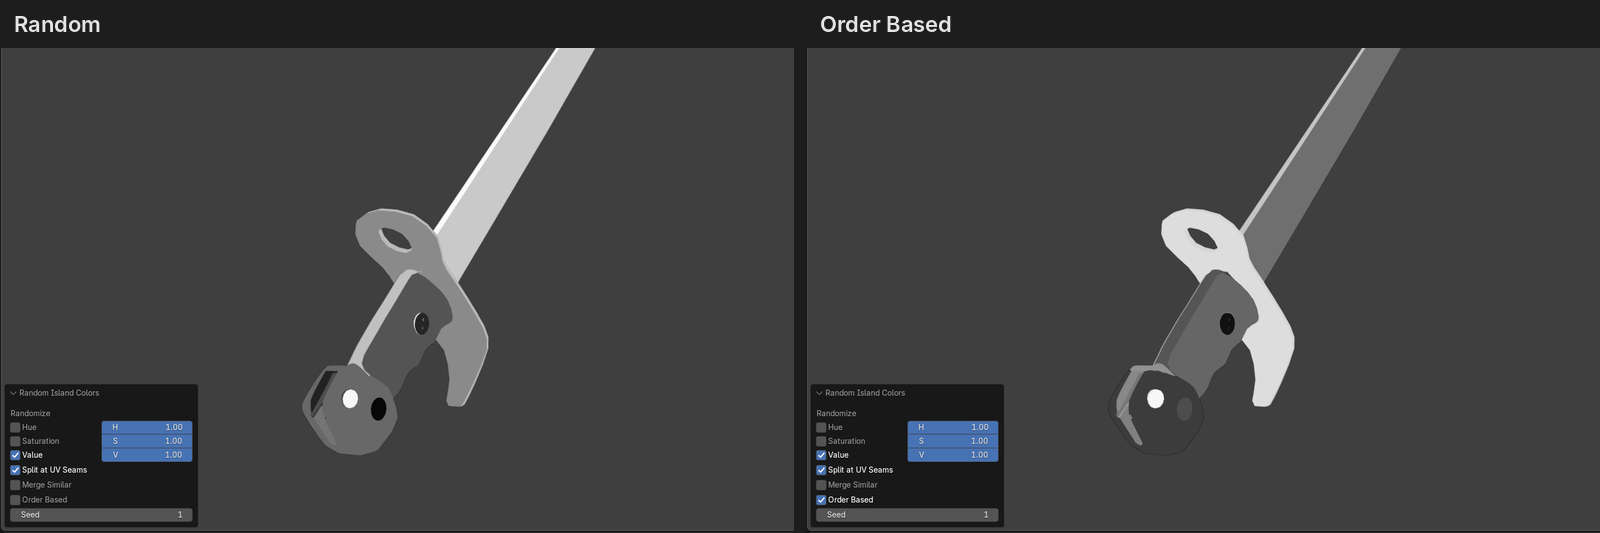
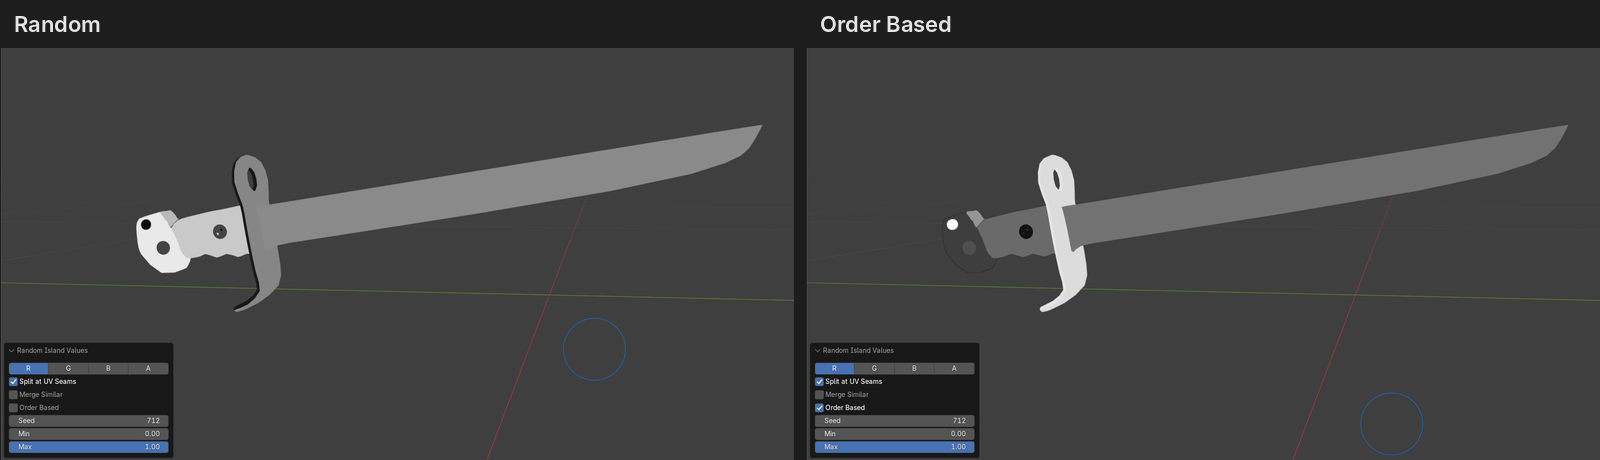
Add the retaken texture panel and Random Island Values shots
Claude-Session: https://claude.ai/code/session_01LnYSEWP6gNupe4Wf3Jz7wg

Changed region(s): [[0.0, 0.0304, 1.0, 0.8522], [0.0, 0.7, 1.0, 1.0], [0.8438, 0.6391, 0.875, 0.6696]]

diff --git a/README.md b/README.md
@@ -34,7 +34,10 @@ To build locally, run `blender --command extension build` in this folder.
 - **Texture Paint:** the image being painted (the active material paint slot, or the canvas in Single Image mode).
 - **Edit Target** overrides that choice, for example to edit a texture from Object mode.
 
-<img src="docs/images/panel_vertex.png" alt="Color Data panel in Vertex Paint mode" width="500">
+<p>
+  <img src="docs/images/panel_vertex.png" alt="Color Data panel in Vertex Paint mode" width="49%">
+  <img src="docs/images/panel_texture.png" alt="Color Data panel in Texture Paint mode" width="49%">
+</p>
 
 ## Values: Stored, Linear, sRGB
 
@@ -93,7 +96,7 @@ Pick a source and destination from Color, Texture, Weights, UV and Normals. Mode
 
 <img src="docs/images/islands.png" alt="Random Island Colors with and without Split at UV Seams" width="100%">
 
-<img src="docs/images/island_values.png" alt="Random Island Colors on Value only, random versus Order Based" width="100%">
+<img src="docs/images/island_values.png" alt="Random Island Values on one channel, random versus Order Based" width="100%">
 
 ### Misc
 
